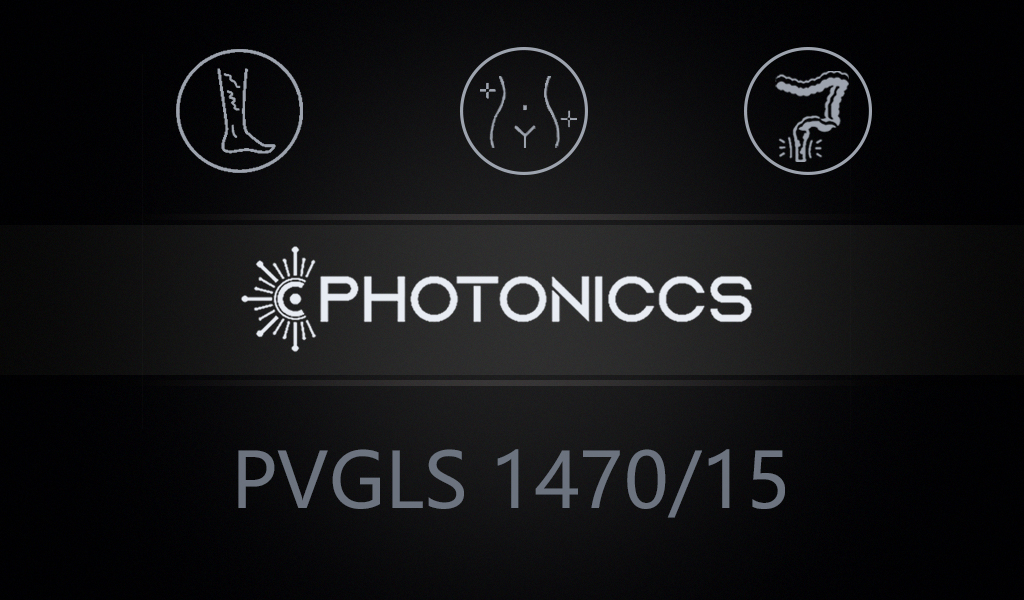
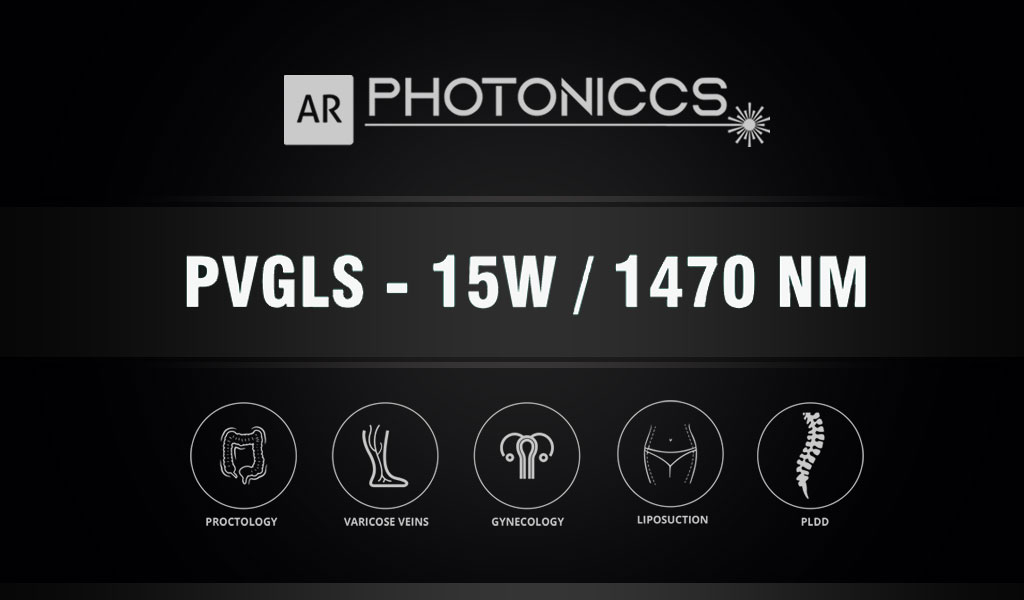
更新图片
1:更新开机画片
2:添加预设方案

diff --git a/MCU_Application/deviceInfo/preScheme.c b/MCU_Application/deviceInfo/preScheme.c
@@ -26,10 +26,7 @@ char const PRE_SCHEME_TABLE_S22[] = "Liposuction Arm";
 char const PRE_SCHEME_TABLE_S23[] = "Liposuction Abdomen";
 char const PRE_SCHEME_TABLE_S24[] = "Liposuction Buttock";
 char const PRE_SCHEME_TABLE_S25[] = "Liposuction Thigh";
-
-										
-										
-										
+char const PRE_SCHEME_TABLE_S26[] = "Gynecomastia";					
 										
 										
 										

diff --git a/MCU_Application/deviceInfo/preScheme.h b/MCU_Application/deviceInfo/preScheme.h
@@ -29,6 +29,7 @@ extern char const PRE_SCHEME_TABLE_S22[];
 extern char const PRE_SCHEME_TABLE_S23[];
 extern char const PRE_SCHEME_TABLE_S24[];
 extern char const PRE_SCHEME_TABLE_S25[];
+extern char const PRE_SCHEME_TABLE_S26[];
 #endif
 
 
